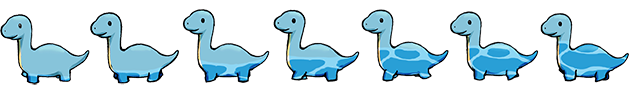
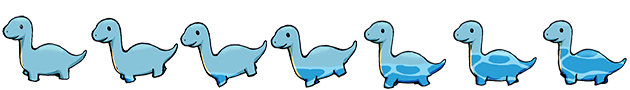
updated river going in, still really rough

Changed region(s): [[0.0, 0.0889, 1.0, 1.0]]

diff --git a/core/src/tiktaalik/trino/GameController.java b/core/src/tiktaalik/trino/GameController.java
@@ -2032,9 +2032,15 @@ public class GameController implements ContactListener, Screen {
 							filmStripDict.get("herbivoreGoingInFront"), 7);
 
 					avatar.forceFrame(animationFrameForGoingIn(frames, avatar.getDirection()));
+					avatar.setOffsetSwim(((float)animationFrameForGoingIn(frames, avatar.getDirection())/(float)frames)*
+						avatar.getmaxOffsetSwim());
+					System.out.println("setting offsetswim to " + ((float)animationFrameForGoingIn(frames, avatar.getDirection())/(float)frames)*
+							avatar.getmaxOffsetSwim());
 
 				}
 				else if (isOnRiverTile()){
+					System.out.println("reache river tile");
+					avatar.setOffsetSwim(avatar.getmaxOffsetSwim());
 					avatar.setIsSwimming(true);
 
 					avatar.setTextureSet(filmStripDict.get("herbivoreSwimmingLeft"), 7,
@@ -2574,9 +2580,12 @@ public class GameController implements ContactListener, Screen {
 	private int animationFrameForGoingIn(int numFrames, int direction){
 		float smallestDistance = Float.MAX_VALUE;
 		River river = null;
-		float detectionRadius = 2.0f;
+		float detectionRadius = 1.5f;
+		float offsetX = 0;
+		float offsetY = 0;
+		
 		for (River r: level.getRivers()){
-			float distance = Vector2.dst(r.getX(),r.getY(), level.getAvatar().getX(), level.getAvatar().getY());
+			float distance = Vector2.dst(r.getX()+offsetX,r.getY()+offsetY, level.getAvatar().getX(), level.getAvatar().getY());
 			if (distance < smallestDistance){
 				smallestDistance = distance;
 				river = r;
@@ -2619,8 +2628,14 @@ public class GameController implements ContactListener, Screen {
 			}
 		}
 
+		// Offset the smallest distance so animation doesn't cut off
+		smallestDistance = smallestDistance - 0.25f;
+
 		if (smallestDistance <= detectionRadius && !river.getisCenterTile()){
 			int frame = numFrames - (int)((smallestDistance/detectionRadius) * (float)numFrames);
+			if (smallestDistance < 0){
+				frame = 0;
+			}
 			return frame;
 		} else {
 			return -1;

diff --git a/core/src/tiktaalik/trino/duggi/Dinosaur.java b/core/src/tiktaalik/trino/duggi/Dinosaur.java
@@ -59,6 +59,8 @@ public abstract class Dinosaur extends GameObject {
     private boolean canBeSeen = true;
     private boolean transform = false;
     private boolean isSwimming = false;
+    private float offsetSwim;
+    private float maxOffsetSwim = -20f;
     private float leftRight; // The current horizontal movement of the character
     private float upDown; // The current vertical movement of the character
     protected int direction;
@@ -381,6 +383,10 @@ public abstract class Dinosaur extends GameObject {
 
     public void setIsSwimming(boolean value){isSwimming = value;}
 
+    public void setOffsetSwim(float value){offsetSwim = value;}
+
+    public float getmaxOffsetSwim(){return maxOffsetSwim;}
+
     public int getDirection() {
         return direction;
     }
@@ -587,9 +593,9 @@ public abstract class Dinosaur extends GameObject {
             filmStripItem += 12;
 
         if (isSwimming){
-            System.out.println("reached 20 offset");
-            offsetY = -20f;
+            offsetY = offsetSwim;
         }
+        System.out.println("offsetSwim is " +  offsetSwim);
 
         //System.out.println("filmstrip item number is " + filmStripItem + "and animeframe is " + animeframe);
 
